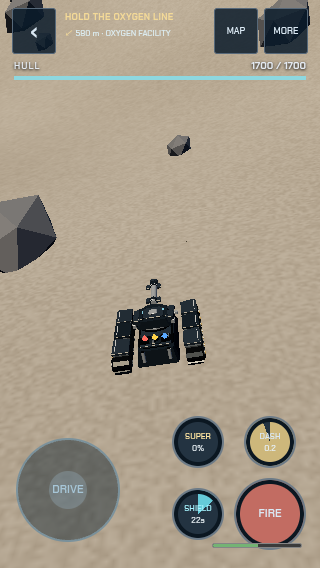
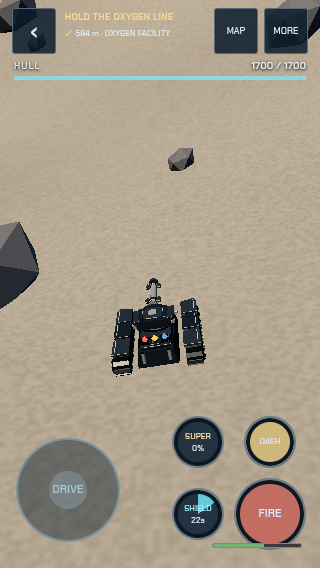
fix(conquest): bound heat debt, split Dash expiry and retain viewport lifecycle

diff --git a/js/conquest/app.js b/js/conquest/app.js
@@ -15,7 +15,7 @@ function hub(){closeWorld();clear();panel.className='cq cq-hub';const top=el('di
 function open(){if(panel)return;if(typeof inBattle==='function'&&inBattle())return;if(typeof webShowroom!=='undefined'&&webShowroom){showroomVisible=webShowroom.visible;webShowroom.visible=false;webShowroom.run();}lastFocus=document.activeElement;panel=el('section','cq',null,document.body);panel.setAttribute('aria-label','Lunar Conquest');background=[...document.body.children].filter(e=>e!==panel&&e.tagName!=='SCRIPT').map(e=>[e,e.inert]);background.forEach(([e])=>e.inert=true);hub();}
 function exit(){closeWorld();panel.remove();panel=null;background.forEach(([e,v])=>e.inert=v);background=[];if(showroomVisible!==null&&typeof webShowroom!=='undefined'&&webShowroom){webShowroom.visible=showroomVisible;webShowroom.run();showroomVisible=null;}if(lastFocus&&lastFocus.isConnected)lastFocus.focus();}
 async function three(){if(root.THREE)return;let s=document.querySelector('script[src*="three.lunar.min"]');if(!s){s=document.createElement('script');s.src='js/vendor/three.lunar.min.js?v='+encodeURIComponent(root.BUILD||'conquest032');document.head.append(s);}await new Promise((resolve,reject)=>{const t=setTimeout(()=>reject(Error('3D engine did not load. Return and retry.')),10000);s.addEventListener('load',()=>{clearTimeout(t);resolve();},{once:true});s.addEventListener('error',()=>{clearTimeout(t);reject(Error('3D engine could not load.'));},{once:true});});}
-async function enter(){const token=++loading;clear();panel.className='cq cq-world';try{panel.classList.toggle('cq-large-text',localStorage.getItem('lunar-conquest-large-hud-v1')==='1');}catch(_){}el('p','cq-load','Preparing local terrain…',panel);try{await three();if(token!==loading||!panel)return;clear();const host=el('div','cq-viewport',null,panel);view=new root.ConquestView(host,hub);const viewport=root.visualViewport,tg=root.Telegram?.WebApp,fit=()=>{if(!panel)return;const h=viewport?.height||innerHeight,th=Number(tg?.viewportHeight);panel.style.height=Math.min(h,th>0?th:h)+'px';panel.style.top=(viewport?.offsetTop||0)+'px';view?.resize();};root.addEventListener('resize',fit,{signal:view.abort.signal});viewport?.addEventListener('resize',fit,{signal:view.abort.signal});viewport?.addEventListener('scroll',fit,{signal:view.abort.signal});tg?.onEvent?.('viewportChanged',fit);view.abort.signal.addEventListener('abort',()=>tg?.offEvent?.('viewportChanged',fit));fit();lastTick=null;const top=el('div','cq-top',null,panel);const back=button('‹',()=>{if(Bactive(view)||view.encounter?.enemies.some(e=>e.hp>0&&Math.hypot(e.x-view.p.x,e.z-view.p.z)<70)){const d=dialog();el('h2','','LEAVE THE DEFENSE?',d);el('p','','Retreat ends this attempt. Secured progression and carried salvage remain with your pilot.',d);d.append(button('RETREAT AND RETURN',async()=>{if(!view.battle||await view.requestAction('return-exploration'))hub();}),button('KEEP FIGHTING',()=>d.remove()));}else hub();});back.setAttribute('aria-label','← RETURN TO CONQUEST');const mapButton=button('MAP',()=>map(view));mapButton.setAttribute('aria-label','OPEN MAP');const more=button('MORE',()=>{panel.querySelector('.cq-more-panel').hidden=!panel.querySelector('.cq-more-panel').hidden;});top.append(back,mapButton,more);const menu=el('div','cq-more-panel',null,panel);menu.hidden=true;menu.append(button('HELP',()=>{menu.hidden=true;help();}),button('INVENTORY / SUPPLY',()=>{menu.hidden=true;supply();}),button('ZOOM IN',()=>view.zoom(-8)),button('ZOOM OUT',()=>view.zoom(8)),button('LARGE HUD TEXT',()=>{const large=panel.classList.toggle('cq-large-text');try{localStorage.setItem('lunar-conquest-large-hud-v1',large?'1':'0');}catch(_){}menu.hidden=true;}));const coords=el('div','cq-coords','',panel);coords.id='cq-coords';const zoom=el('div','cq-zoom',null,panel);zoom.append(button('＋',()=>view.zoom(-8)),button('−',()=>view.zoom(8)));missionControls();if(!onboardingSeen())transmission();const stick=el('div','cq-stick','DRIVE',panel);stick.setAttribute('aria-label','Drag to drive');const nub=el('i','',null,stick);let id=null;
+async function enter(){const token=++loading;clear();panel.className='cq cq-world';try{panel.classList.toggle('cq-large-text',localStorage.getItem('lunar-conquest-large-hud-v1')==='1');}catch(_){}el('p','cq-load','Preparing local terrain…',panel);try{await three();if(token!==loading||!panel)return;clear();const host=el('div','cq-viewport',null,panel);view=new root.ConquestView(host,hub);const viewport=root.visualViewport,tg=root.Telegram?.WebApp,fit=()=>{if(!panel)return;const h=viewport?.height||innerHeight,th=Number(tg?.viewportHeight);panel.style.height=Math.min(h,th>0?th:h)+'px';panel.style.top=(viewport?.offsetTop||0)+'px';view?.resize();};root.addEventListener('resize',fit,{signal:view.lifecycle.signal});viewport?.addEventListener('resize',fit,{signal:view.lifecycle.signal});viewport?.addEventListener('scroll',fit,{signal:view.lifecycle.signal});tg?.onEvent?.('viewportChanged',fit);view.lifecycle.signal.addEventListener('abort',()=>tg?.offEvent?.('viewportChanged',fit));fit();lastTick=null;const top=el('div','cq-top',null,panel);const back=button('‹',()=>{if(Bactive(view)||view.encounter?.enemies.some(e=>e.hp>0&&Math.hypot(e.x-view.p.x,e.z-view.p.z)<70)){const d=dialog();el('h2','','LEAVE THE DEFENSE?',d);el('p','','Retreat ends this attempt. Secured progression and carried salvage remain with your pilot.',d);d.append(button('RETREAT AND RETURN',async()=>{if(!view.battle||await view.requestAction('return-exploration'))hub();}),button('KEEP FIGHTING',()=>d.remove()));}else hub();});back.setAttribute('aria-label','← RETURN TO CONQUEST');const mapButton=button('MAP',()=>map(view));mapButton.setAttribute('aria-label','OPEN MAP');const more=button('MORE',()=>{panel.querySelector('.cq-more-panel').hidden=!panel.querySelector('.cq-more-panel').hidden;});top.append(back,mapButton,more);const menu=el('div','cq-more-panel',null,panel);menu.hidden=true;menu.append(button('HELP',()=>{menu.hidden=true;help();}),button('INVENTORY / SUPPLY',()=>{menu.hidden=true;supply();}),button('ZOOM IN',()=>view.zoom(-8)),button('ZOOM OUT',()=>view.zoom(8)),button('LARGE HUD TEXT',()=>{const large=panel.classList.toggle('cq-large-text');try{localStorage.setItem('lunar-conquest-large-hud-v1',large?'1':'0');}catch(_){}menu.hidden=true;}));const coords=el('div','cq-coords','',panel);coords.id='cq-coords';const zoom=el('div','cq-zoom',null,panel);zoom.append(button('＋',()=>view.zoom(-8)),button('−',()=>view.zoom(8)));missionControls();if(!onboardingSeen())transmission();const stick=el('div','cq-stick','DRIVE',panel);stick.setAttribute('aria-label','Drag to drive');const nub=el('i','',null,stick);let id=null;
  const update=e=>{const r=stick.getBoundingClientRect(),x=(e.clientX-r.x-r.width/2)/40,z=-(e.clientY-r.y-r.height/2)/40,n=Math.max(1,Math.hypot(x,z));if(view)view.stick={x:x/n,z:z/n};nub.style.transform='translate('+x/n*32+'px,'+(-z/n*32)+'px)';};
  stick.onpointerdown=e=>{if(id!==null)return;e.preventDefault();id=e.pointerId;stick.setPointerCapture(id);update(e);};stick.onpointermove=e=>{if(id===e.pointerId)update(e);};stick.onpointerup=stick.onpointercancel=stick.onlostpointercapture=e=>{if(e.pointerId!==id)return;id=null;if(view)view.stick={x:0,z:0};nub.style.transform='';};
  if(dev){const b=button('DEV DIAGNOSTICS',()=>{diag=!diag;document.querySelector('#cq-diagnostics').hidden=!diag;});zoom.append(b);const d=el('div','cq-diagnostics',null,panel);d.id='cq-diagnostics';d.hidden=true;el('b','','DEV ONLY · TEST TRAVEL / JUMP TO COORDINATE',d);const x=el('input','',null,d),z=el('input','',null,d);x.type=z.type='number';x.placeholder='X 1…31679';z.placeholder='Z 1…47519';x.setAttribute('aria-label','Test X');z.setAttribute('aria-label','Test Z');d.append(button('JUMP',()=>{if(view.jump(x.value,z.value))mapOpen=false;}));for(const [name,a,b] of [['Bridge approach',898,1024],['Underpass',1024,995],['Center',15840,23760],['Far NE',31679,47519],['SW',1,1]])d.append(button(name,()=>view.jump(a,b)));el('pre','cq-stats','',d);}

diff --git a/index.html b/index.html
@@ -19,7 +19,7 @@
 <script>
 // Auto-update: phones and GitHub's CDN can keep an old copy for ~10 min. version.json is fetched fresh;
 // if it's newer than this page, reload with ?v=<new> (a URL the cache has never seen). Telegram data in the #hash is kept.
-window.BUILD='20261105031204';
+window.BUILD='20261105033747';
 fetch('version.json?t='+Date.now(),{cache:'no-store'}).then(r=>r.json()).then(j=>{
  const q=new URLSearchParams(location.search);
  if(j&&j.v&&j.v!==window.BUILD&&q.get('v')!==j.v){q.set('v',j.v);location.replace(location.pathname+'?'+q.toString()+location.hash);}
@@ -30,13 +30,13 @@ fetch('version.json?t='+Date.now(),{cache:'no-store'}).then(r=>r.json()).then(j=
 <link rel="preconnect" href="https://warmachines-a6034-default-rtdb.firebaseio.com">
 <link rel="preload" href="fonts/chakra-petch-700.woff" as="font" type="font/woff" crossorigin>
 <link rel="preload" href="fonts/chakra-petch-600.woff" as="font" type="font/woff" crossorigin>
-<link rel="stylesheet" href="css/app.css?v=20261105031204">
+<link rel="stylesheet" href="css/app.css?v=20261105033747">
 <link rel="icon" type="image/png" sizes="32x32" href="favicon-32.png">
 <link rel="icon" type="image/png" sizes="512x512" href="icon.png">
 <link rel="apple-touch-icon" href="icon-180.png">
 <meta property="og:image" content="https://solb7403-creator.github.io/war-machines/icon.png">
-<link rel="stylesheet" href="css/environment.css?v=20261105031204">
-<link rel="stylesheet" href="css/conquest.css?v=20261105031204">
+<link rel="stylesheet" href="css/environment.css?v=20261105033747">
+<link rel="stylesheet" href="css/conquest.css?v=20261105033747">
 </head>
 <body>
 <canvas id="c"></canvas>
@@ -60,30 +60,30 @@ fetch('version.json?t='+Date.now(),{cache:'no-store'}).then(r=>r.json()).then(j=
 <div id="layer"></div>
 <div class="toast" id="toast" role="status" aria-live="polite"></div>
 <div id="sab"></div>
-<script src="js/rules.js?v=20261105031204"></script>
-<script src="js/core.js?v=20261105031204"></script>
-<script src="js/net.js?v=20261105031204"></script>
-<script src="js/game.js?v=20261105031204"></script>
-<script src="js/match.js?v=20261105031204"></script>
-<script src="js/pvp.js?v=20261105031204"></script>
-<script src="js/render.js?v=20261105031204"></script>
-<script src="js/models3d.js?v=20261105031204"></script>
-<script src="js/graphics.js?v=20261105031204"></script><script src="js/equipment3d.js?v=20261105031204"></script>
-<script src="js/environment3d.js?v=20261105031204"></script>
-<script src="js/showroom.js?v=20261105031204"></script>
-<script src="js/proof.js?v=20261105031204"></script>
-<script src="js/render3d.js?v=20261105031204"></script>
-<script src="js/fx.js?v=20261105031204"></script>
-<script src="js/ui.js?v=20261105031204"></script>
-<script src="js/range.js?v=20261105031204"></script>
-<script src="js/conquest/world.js?v=20261105031204"></script>
-<script src="js/conquest/discovery.js?v=20261105031204"></script>
-<script src="js/conquest/progress.js?v=20261105031204"></script>
-<script src="js/conquest/combat.js?v=20261105031204"></script>
-<script src="js/conquest/controls.js?v=20261105031204"></script>
-<script src="js/conquest/session.js?v=20261105031204"></script>
-<script src="js/conquest/view.js?v=20261105031204"></script>
-<script src="js/conquest/app.js?v=20261105031204"></script>
-<script src="js/main.js?v=20261105031204"></script>
+<script src="js/rules.js?v=20261105033747"></script>
+<script src="js/core.js?v=20261105033747"></script>
+<script src="js/net.js?v=20261105033747"></script>
+<script src="js/game.js?v=20261105033747"></script>
+<script src="js/match.js?v=20261105033747"></script>
+<script src="js/pvp.js?v=20261105033747"></script>
+<script src="js/render.js?v=20261105033747"></script>
+<script src="js/models3d.js?v=20261105033747"></script>
+<script src="js/graphics.js?v=20261105033747"></script><script src="js/equipment3d.js?v=20261105033747"></script>
+<script src="js/environment3d.js?v=20261105033747"></script>
+<script src="js/showroom.js?v=20261105033747"></script>
+<script src="js/proof.js?v=20261105033747"></script>
+<script src="js/render3d.js?v=20261105033747"></script>
+<script src="js/fx.js?v=20261105033747"></script>
+<script src="js/ui.js?v=20261105033747"></script>
+<script src="js/range.js?v=20261105033747"></script>
+<script src="js/conquest/world.js?v=20261105033747"></script>
+<script src="js/conquest/discovery.js?v=20261105033747"></script>
+<script src="js/conquest/progress.js?v=20261105033747"></script>
+<script src="js/conquest/combat.js?v=20261105033747"></script>
+<script src="js/conquest/controls.js?v=20261105033747"></script>
+<script src="js/conquest/session.js?v=20261105033747"></script>
+<script src="js/conquest/view.js?v=20261105033747"></script>
+<script src="js/conquest/app.js?v=20261105033747"></script>
+<script src="js/main.js?v=20261105033747"></script>
 </body>
 </html>

diff --git a/js/conquest/view.js b/js/conquest/view.js
@@ -21,7 +21,7 @@ function canvasRenderer(v){
 }
 class View {
  constructor(host,onError){
- const T=root.THREE;this.T=T;this.host=host;this.onError=onError;this.chunks=new Map();this.keys={};this.stick={x:0,z:0};this.yaw=-Math.PI/2;this.pitch=.42;this.distance=23;this.frames=0;this.fps=0;this.elapsed=0;this.builds=0;this.disposed=false;
+ const T=root.THREE;this.T=T;this.lifecycle=new AbortController();this.host=host;this.onError=onError;this.chunks=new Map();this.keys={};this.stick={x:0,z:0};this.yaw=-Math.PI/2;this.pitch=.42;this.distance=23;this.frames=0;this.fps=0;this.elapsed=0;this.builds=0;this.disposed=false;
  this.p={x:898,z:1024,y:W.groundAt(898,1024),surface:'ground'};
  try{const p=JSON.parse(localStorage.getItem('lunar-conquest-position-v1'));if(p&&Number.isFinite(p.x)&&Number.isFinite(p.z)){this.jump(p.x,p.z);if(p.surface==='bridge'){const deck=W.deckAt(this.p.x,this.p.z);if(deck!==null){this.p.surface='bridge';this.p.y=deck;}}}}catch(_){}
  this.discovery=root.ConquestDiscovery?.create();
@@ -262,7 +262,7 @@ class View {
  if(Math.hypot(cx-this.p.x,cz-this.p.z)<7){cx=this.p.x;cz=this.p.z+.1;hy=Math.max(hy,this.p.y+Math.max(18,d*.8));}
  this.camera.position.set(cx-ox,hy,cz-oz);this.camera.lookAt(tx,cy,tz);this.combatRender();this.renderer.render(this.scene,this.camera);
  }
- dispose(){if(this.disposed)return;this.authority?.dispose();this.clearBattle();this.disposed=true;this.discovery?.flush();try{if(this.encounter)localStorage.setItem('lunar-conquest-garrisons-v1',JSON.stringify(this.encounter.cleared));}catch(_){}this.encounter?.dispose();this.abort.abort();try{localStorage.setItem('lunar-conquest-position-v1',JSON.stringify({x:this.p.x,z:this.p.z,surface:this.p.surface}));}catch(_){}for(const c of this.chunks.values())c.group.traverse(m=>{if(m.geometry&&!this.shared.includes(m.geometry))m.geometry.dispose();if(m.isInstancedMesh)m.dispose();});this.chunks.clear();this.horizon?.geometry.dispose();this.motion?.dispose();if(typeof Equipment3D!=='undefined')Equipment3D.releaseTree(this.vehicle);this.vehicle.traverse(o=>{if(o.geometry&&!o.geometry.userData.hfShared)o.geometry.dispose();});Object.values(this.modelMats||{}).forEach(m=>m.dispose());this.shared.forEach(g=>g.dispose());this.selectionMaterial?.dispose();this.shieldMaterial?.dispose();this.lootMeshes?.clear();this.material.dispose();this.archMaterial.dispose();this.groundTexture.dispose();Object.values(this.materials).forEach(m=>m.dispose());this.hfRelease?.();this.renderer.dispose();this.renderer.forceContextLoss();this.renderer.domElement.remove();}
+ dispose(){if(this.disposed)return;this.authority?.dispose();this.clearBattle();this.disposed=true;this.lifecycle.abort();this.discovery?.flush();try{if(this.encounter)localStorage.setItem('lunar-conquest-garrisons-v1',JSON.stringify(this.encounter.cleared));}catch(_){}this.encounter?.dispose();this.abort.abort();try{localStorage.setItem('lunar-conquest-position-v1',JSON.stringify({x:this.p.x,z:this.p.z,surface:this.p.surface}));}catch(_){}for(const c of this.chunks.values())c.group.traverse(m=>{if(m.geometry&&!this.shared.includes(m.geometry))m.geometry.dispose();if(m.isInstancedMesh)m.dispose();});this.chunks.clear();this.horizon?.geometry.dispose();this.motion?.dispose();if(typeof Equipment3D!=='undefined')Equipment3D.releaseTree(this.vehicle);this.vehicle.traverse(o=>{if(o.geometry&&!o.geometry.userData.hfShared)o.geometry.dispose();});Object.values(this.modelMats||{}).forEach(m=>m.dispose());this.shared.forEach(g=>g.dispose());this.selectionMaterial?.dispose();this.shieldMaterial?.dispose();this.lootMeshes?.clear();this.material.dispose();this.archMaterial.dispose();this.groundTexture.dispose();Object.values(this.materials).forEach(m=>m.dispose());this.hfRelease?.();this.renderer.dispose();this.renderer.forceContextLoss();this.renderer.domElement.remove();}
 }
 root.ConquestView=View;
 })(globalThis);

diff --git a/js/conquest/controls.js b/js/conquest/controls.js
@@ -37,7 +37,7 @@ function fireSuper(B,s){
 }
 C.Battle.prototype.abilityStep=function(dt){
  ensure(this);this.dashCd=Math.max(0,this.dashCd-dt);this.shieldCd=Math.max(0,this.shieldCd-dt);this.shieldT=Math.max(0,this.shieldT-dt);
- if(this.dashState){this.dashState.t-=dt;if(this.dashState.t<=0)this.dashState=null;}
+ if(this.dashState){this.dashState.t-=dt;if(this.dashState.t<=1e-8)this.dashState=null;}
  if(this.superAttack){this.superAttack.t-=dt;if(this.superAttack.t<=0){this.superAttack.origin={x:this.player.x,y:this.player.y-2.2,z:this.player.z};fireSuper(this,this.superAttack);this.superAttack=null;}}
  for(const q of this.superShells){const n=Math.max(1,Math.ceil(Math.hypot(q.vx,q.vz)*dt/.3));for(let i=0;i<n&&q.life>0;i++){q.x+=q.vx*dt/n;q.z+=q.vz*dt/n;q.y+=q.vy*dt/n;
  const hit=this.enemies.some(e=>e.hp>0&&Math.hypot(e.x-q.x,e.z-q.z)<2.5&&Math.abs(e.y+2.2-q.y)<3);
@@ -50,7 +50,7 @@ function advance(B,p,input,dt,exploration){
  const values=C.engineeringValues(B.playerStats,B.engineering);if(input.shield&&B.shieldCd<=0){B.shieldT=values.shieldDuration;B.shieldCd=values.shieldCooldown;}
  let x=Number(input.x)||0,z=Number(input.z)||0,n=Math.max(1,Math.hypot(x,z));x/=n;z/=n;
  if(input.dash&&B.dashCd<=0&&!B.dashState){const l=Math.hypot(x,z),yaw=l>.2?Math.atan2(x,z):B.heading??B.turretYaw;B.dashState={t:values.dashTime,x:Math.sin(yaw),z:Math.cos(yaw)};B.dashCd=values.dashCooldown;}
- let left=dt,first=true;while(left>1e-8&&B.state==='active'&&B.playerHp>0){const h=Math.min(left,1/60,.35/(B.combatSpeed*values.dashSpeed));left-=h;const old=p,speed=B.dashState?B.combatSpeed*values.dashSpeed:exploration?B.combatSpeed*2:B.combatSpeed;
+ let left=dt,first=true;while(left>1e-8&&B.state==='active'&&B.playerHp>0){const h=Math.min(left,1/60,.35/(B.combatSpeed*values.dashSpeed),B.dashState?.t??Infinity);left-=h;const old=p,speed=B.dashState?B.combatSpeed*values.dashSpeed:exploration?B.combatSpeed*2:B.combatSpeed;
  const q=W.advance(p,(B.dashState?.x??x)*speed*h,(B.dashState?.z??z)*speed*h);
  if(!B.enemies.some(e=>e.hp>0&&Math.hypot(q.x-e.x,q.z-e.z)<3.8&&Math.abs(q.y-e.y)<3))p=q;
  if(p!==old)B.heading=Math.atan2(p.x-old.x,p.z-old.z);
@@ -60,6 +60,6 @@ function advance(B,p,input,dt,exploration){
  }
  return p;
 }
-function carry(from,to){ensure(from);for(const k of ['playerShots','engineering','heat','overheated','cooldown','charge','turretYaw','dashCd','shieldCd','shieldT','dashState','superAttack','superShells'])to[k]=JSON.parse(JSON.stringify(from[k]??null));ensure(to);}
+function carry(from,to){ensure(from);for(const k of ['playerShots','engineering','heat','heatOverflow','overheated','cooldown','charge','turretYaw','dashCd','shieldCd','shieldT','dashState','superAttack','superShells'])to[k]=JSON.parse(JSON.stringify(from[k]??null));ensure(to);}
 root.ConquestControl=Object.freeze({advance,aim,visible,carry,ensure,CONFIG});
 })(globalThis);

diff --git a/js/conquest/combat.js b/js/conquest/combat.js
@@ -11,6 +11,7 @@ const tracks=Object.freeze({heatCapacity:.09,heatCooling:.09,bulletVelocity:.10,
 const costs=Object.freeze([{cp:100,alloy:4,biomass:2,helium:0},{cp:250,alloy:12,biomass:6,helium:0},{cp:600,alloy:25,biomass:15,helium:2}].map(Object.freeze));
 const tuningKeys=Object.freeze(['thermal','ballistics','mobility','shield']);
 function engineeringDefaults(e={}){return {ranks:Object.fromEntries(Object.keys(tracks).map(k=>[k,Number.isInteger(e.ranks?.[k])?clamp(e.ranks[k],0,3):0])),tuning:Object.fromEntries(tuningKeys.map(k=>[k,Number.isInteger(e.tuning?.[k])?clamp(e.tuning[k],-3,3):0]))};}
+function setHeat(B,total,capacity){total=Math.max(0,total);B.heat=Math.min(capacity,total);B.heatOverflow=Math.max(0,total-capacity);}
 function engineeringValues(stats,e){
  const {ranks:r,tuning:t}=engineeringDefaults(e),p=profiles[stats.wtype]||profiles.pulse;
  const bonus=k=>r[k]*tracks[k],benefit=v=>Math.max(0,v)*.05-Math.max(0,-v)*.035,cost=v=>Math.max(0,v)*.035-Math.max(0,-v)*.05;
@@ -107,8 +108,8 @@ class Battle {
  }
  step(dt,fire){
  this.time+=dt;this.abilityStep?.(dt);this.cooldown=Math.max(-dt,this.cooldown-dt);this.effects.forEach(e=>e.life-=dt);this.effects=this.effects.filter(e=>e.life>0).slice(-32);
- const thermal=engineeringValues(this.playerStats,this.engineering);this.heat=Math.max(0,(this.heat||0)-thermal.cooling*dt);
- if(this.overheated&&this.heat<=thermal.capacity*.35)this.overheated=false;
+ const thermal=engineeringValues(this.playerStats,this.engineering);setHeat(this,(this.heat||0)+(this.heatOverflow||0)-thermal.cooling*dt,thermal.capacity);
+ if(this.overheated&&this.heat+(this.heatOverflow||0)<=thermal.capacity*.35)this.overheated=false;
  if(fire&&!this.overheated&&this.cooldown<=1e-9){if(this.shoot(this.player,this.aim,this.playerStats,'player',this.playerStats.wtype,0)){
  this.effects.push({kind:'muzzle',x:this.player.x,y:this.player.y,z:this.player.z,weapon:this.playerStats.wtype,life:.1});this.cooldown+=this.playerStats.wshot/rofMult(this.playerStats);this.heat=Math.min(thermal.capacity,this.heat+thermal.heatPerShot);if(this.heat>=thermal.capacity)this.overheated=true;
  }}else if(!fire||this.overheated)this.cooldown=Math.max(0,this.cooldown);
@@ -153,5 +154,5 @@ class Encounter extends Battle {
   if(this.playerHp>0){this.state='active';this.reason=null;}
  }
 }
-root.ConquestCombat=Object.freeze({profiles,tracks,costs,tuningKeys,engineeringDefaults,engineeringValues,mission,installations,patrols,archetypes,formations,Battle,Encounter,lineClear,blocked});
+root.ConquestCombat=Object.freeze({profiles,tracks,costs,tuningKeys,engineeringDefaults,engineeringValues,setHeat,mission,installations,patrols,archetypes,formations,Battle,Encounter,lineClear,blocked});
 })(globalThis);

diff --git a/worker/src/conquest-sim.js b/worker/src/conquest-sim.js
@@ -63,7 +63,7 @@ export function applyAction(previous,request,now){
  s.engineering.tuning[request.tuning]=request.position;
  }
  // Capacity changes preserve the absolute heat debt and latch. Never refill HP or abilities.
- B.engineering=copy(s.engineering);if(B.heat>=C.engineeringValues(B.playerStats,B.engineering).capacity)B.overheated=true;
+ B.engineering=copy(s.engineering);const capacity=C.engineeringValues(B.playerStats,B.engineering).capacity,total=(B.heat||0)+(B.heatOverflow||0);C.setHeat(B,total,capacity);if(total>=capacity)B.overheated=true;
  s.notice={kind:'engineering-saved'};
  }else if(request.action==='bank'){bank(s,now);
  }else if(request.action==='repair'){

diff --git a/dev/tests/conquest-session-033.py b/dev/tests/conquest-session-033.py
@@ -106,6 +106,9 @@ async def main(engine,journey_only=False,fallback=False):
      await page.evaluate('window.preLoss=Conquest.view.authority.state.hp;Conquest.view.renderer.forceContextLoss()')
      await page.wait_for_function('Conquest.view.renderer.isConquestCanvas')
      assert await page.evaluate('Conquest.view.authority.state.hp===preLoss&&Conquest.view.authority.connected')
+     await page.set_viewport_size({'width':width,'height':height-100});await page.wait_for_timeout(100)
+     assert await page.locator('.cq-world').evaluate('(e)=>e.getBoundingClientRect().height<=innerHeight')
+     await page.set_viewport_size({'width':width,'height':height})
     assert not errors,errors
     results.append({'viewport':[width,height],'multiPointer':'native three-touch' if engine=='chromium' else 'mouse DRIVE plus native touch abilities','errors':errors})
     await page.evaluate('Conquest.view?.authority?.dispose()');await page.unroute_all(behavior='ignoreErrors');await context.close();print('PASS',engine,width,height,flush=True)

diff --git a/docs/conquest-session-033/README.md b/docs/conquest-session-033/README.md
@@ -7,10 +7,10 @@ Implementation on fresh branch from b5a01350dc2a41c7b84a1809050910a007dc2194.
 
 Use existing vanilla JS, deterministic shared simulation, Three.js and authenticated ETag transaction. Keep combat profiles and engineering math together in combat.js to preserve existing explicit browser/server load order. Rendering remains independent.
 
-- [ ] Controls: reproduce multi-pointer activation; pointer-down ability edges, pointer-specific joystick release; measure 0.40s × 5.1 Dash, collision and frame rates.
-- [ ] Combat: canonical archetype cadence/damage, independent speed/range, persistent heat and lockout; migration and transition tests.
-- [ ] Engineering: bounded saved ranks/tuning, safe terminal actions, atomic banked costs and UI previews; forgery/replay/concurrency tests.
-- [ ] Visuals: reusable pooled bolt/beam/vent/Dash routines; compact heat meter, fallback verification and mobile screenshots.
+- [x] Controls: reproduce multi-pointer activation; pointer-down ability edges, pointer-specific joystick release; measure 0.40s × 5.1 Dash, collision and frame rates.
+- [x] Combat: canonical archetype cadence/damage, independent speed/range, persistent heat and lockout; migration and transition tests.
+- [x] Engineering: bounded saved ranks/tuning, safe terminal actions, atomic banked costs and UI previews; forgery/replay/concurrency tests.
+- [x] Visuals: reusable pooled bolt/beam/vent/Dash routines; compact heat meter, fallback verification and mobile screenshots.
 - [ ] Validation/release: focused tests then existing gates at final SHA; PR review, merge only if scope and gates pass; verify Worker/Pages merge-SHA releases.
 
 Review focus: active projectiles during upgrades; hot weapon swaps; short edges during network requests; terminal race with movement; previous v1 records without engineering.
@@ -26,7 +26,7 @@ Baseline: authority, controls, economy and balance scripts passed before editing
 | Moonbeam | .95 | 125 | 36 | 10 | 4 shots / 2.85s | 13 |
 | Siege | 1.20 | 100 | 30 | 9 | 5 shots / 4.80s | 11 |
 
-Capacity 100; vent latch releases at <=35% of current capacity. Cooling runs continuously during simulation. Paused mission/navigation time does not forgive heat debt. Absolute heat, vent latch, standard cooldown and ability cooldowns carry across mission/respawn/refit. Hot weapon swaps inherit heat, rather than providing another free reservoir. Cooling follows the active gun's profile. Existing v1 records default missing heat/engineering to stock without resetting account progression.
+Capacity 100; vent latch releases at <=35% of current capacity. Cooling runs continuously during simulation. Paused mission/navigation time does not forgive heat debt. Absolute heat debt (including overflow when specialization reduces capacity), vent latch, standard cooldown and ability cooldowns carry across mission/respawn/refit. Hot weapon swaps inherit heat, rather than providing another free reservoir. Cooling follows the active gun's profile. Existing v1 records default missing heat/engineering to stock without resetting account progression.
 
 Unheated damage remains `canonical wdps × Conquest interval × existing damage/impact/armor/critical modifiers`; cadence is interval / existing RoF multiplier. Thus unheated stat-derived DPS is unchanged algebraically, across tiers and cores. The 30s benchmark uses common stock archetypes without cores, at 15/30/60 FPS (identical shot totals). The existing starter build includes RoF/damage/armor cores; its authority mission test changed from 34s baseline to 54s with heat. This is a focused automated scenario, not a player population TTK study.
 
@@ -60,3 +60,7 @@ Baseline: `conquest-authority`, `conquest-controls`, `conquest-economy`, `conque
 Screenshots/results in this directory: 320×568 and 390×844 Chromium/WebKit. Laser captures briefly pause the test-owned scene after a real simulated projectile/Super is emitted so geometry can be inspected; this is not a latency measurement. No physical-device verification or new frame-time benchmark is claimed. Local WebKit dependencies were extracted into a temporary browser runtime; host library preflight was skipped only after resolving actual linker dependencies. CI uses standard installed browser dependencies.
 
 Conquest now uses a lightweight Canvas fallback when Settings selects 2D, WebGL construction fails or its context is lost. It reuses the same deterministic battle, authenticated session, world heights, camera projection and canonical hull radii; it renders discrete bolt trails and elongated Supers without a second engine or simulation. LOW caps pixel ratio at 1. A dedicated fallback journey passed at 390×844 Chromium, including moving abilities, purchases, heat and both laser silhouettes. Context-loss continuity is included in the final CI browser journey. Arcade fallback remains untouched.
+
+Capacity-reduction regression: the visible heat remains bounded by current capacity; separately retained overflow cools before the meter falls. Toggling thermal specialization cannot delete heat debt or clear the overheat latch.
+
+Independent review at 9ae1168 found two issues, both fixed with regression coverage: split physics steps at exact Dash expiry (full-second traversal now matches at 15/20/30/60 FPS), and retain lifecycle viewport/Telegram subscriptions across renderer context-loss fallback. No blocking CAS, migration, projectile preservation or heat continuity issue was found.
